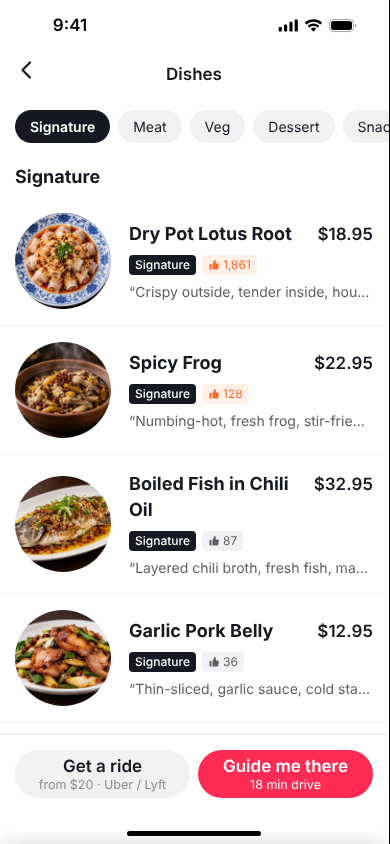
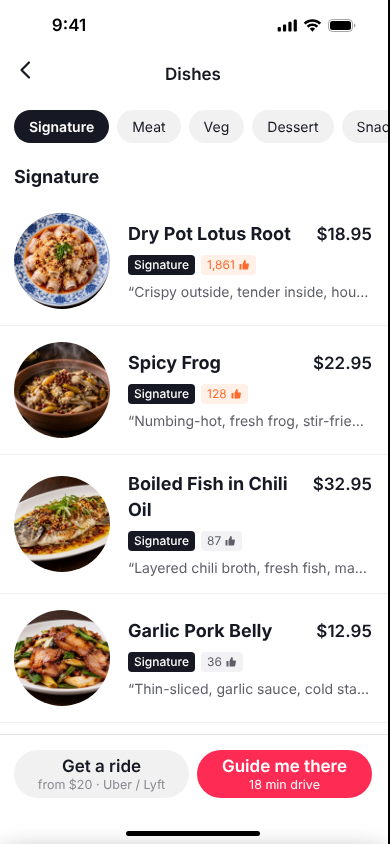
Recs: number first, thumbs-up after
Claude-Session: https://claude.ai/code/session_01Q6z36aYFBjH3xCc6Ygpjkp

diff --git a/app.js b/app.js
@@ -128,7 +128,7 @@
   // Compact recommendations; photo opens the existing video feed, text opens Menu.
   const recommendationNames = ['Dry Pot Lotus Root', 'Spicy Frog', 'Boiled Fish in Chili Oil', 'Garlic Pork Belly'];
   const recommendationPhotos = ['garlic-pork-belly.jpg', 'stone-frog.jpg', 'marble-goby.jpg', 'twice-cooked-pork.jpg'];
-  $('#dishRow').innerHTML = recommendationNames.map((name, i) => `<div class="dish"><button class="ph" data-photo="${i}" aria-label="Watch ${name}" style="background-image:url(img/d/${recommendationPhotos[i]})"><span>TOP·${i+1}</span></button><button data-act="dishDetail" data-name="${name}" class="dish-name">${name}</button><span class="rec" aria-label="${[63,33,53,33][i]} recommend"><svg class="rthumb" width="12" height="12" viewBox="0 0 24 24" fill="none" aria-hidden="true"><path d="M7 10v11H3V10h4zm2 0l4-8c1.5 0 2.5 1 2.5 2.5V9H20c1 0 2 1 1.8 2.2l-1.3 8C20.3 20.3 19.5 21 18.5 21H9V10z" fill="currentColor"/></svg>${[63,33,53,33][i]}</span></div>`).join('');
+  $('#dishRow').innerHTML = recommendationNames.map((name, i) => `<div class="dish"><button class="ph" data-photo="${i}" aria-label="Watch ${name}" style="background-image:url(img/d/${recommendationPhotos[i]})"><span>TOP·${i+1}</span></button><button data-act="dishDetail" data-name="${name}" class="dish-name">${name}</button><span class="rec" aria-label="${[63,33,53,33][i]} recommend">${[63,33,53,33][i]}<svg class="rthumb" width="12" height="12" viewBox="0 0 24 24" fill="none" aria-hidden="true"><path d="M7 10v11H3V10h4zm2 0l4-8c1.5 0 2.5 1 2.5 2.5V9H20c1 0 2 1 1.8 2.2l-1.3 8C20.3 20.3 19.5 21 18.5 21H9V10z" fill="currentColor"/></svg></span></div>`).join('');
   $('#comboRow').innerHTML = COMBOS.map(c => `
     <div class="combo">
       <div class="pics">${c.imgs.map(i => `<div style="background-image:url(${i})"></div>`).join('')}</div>
@@ -604,7 +604,7 @@
   /* Final POI screens: shared rows, page history and six menu categories. */
   const MENU = {"Signature": [{"name": "Dry Pot Lotus Root", "price": "$18.95", "recs": 1861, "quote": "Crispy outside, tender inside, house secret spice", "img": "img/d/garlic-pork-belly.jpg", "tag": "Signature"}, {"name": "Spicy Frog", "price": "$22.95", "recs": 128, "quote": "Numbing-hot, fresh frog, stir-fried on high heat", "img": "img/d/stone-frog.jpg", "tag": "Signature"}, {"name": "Boiled Fish in Chili Oil", "price": "$32.95", "recs": 87, "quote": "Layered chili broth, fresh fish, made to order", "img": "img/d/marble-goby.jpg", "tag": "Signature"}, {"name": "Garlic Pork Belly", "price": "$12.95", "recs": 36, "quote": "Thin-sliced, garlic sauce, cold starter", "img": "img/d/twice-cooked-pork.jpg", "tag": "Signature"}, {"name": "Mapo Beef Rib", "price": "$24.95", "recs": 14, "quote": "Rich, beef rib, slow-braised", "img": "img/d/mapo-beef-rib.jpg", "tag": "Signature"}, {"name": "Cold Sesame Noodles", "price": "$9.95", "recs": 10, "quote": "Nutty, chewy, hand-pulled", "img": "img/d/cold-noodles.jpg", "tag": "Signature"}], "Meat": [{"name": "Twice-Cooked Pork", "price": "$16.95", "tag": "Popular", "recs": 412, "quote": "Smoky, fatty-lean belly, leek", "img": "img/d/twice-cooked-pork.jpg"}, {"name": "Peppercorn Duck", "price": "$21.95", "tag": "Spicy", "recs": 233, "quote": "Numbing Sichuan pepper, crispy skin", "img": "img/d/peppercorn-duck.jpg"}, {"name": "Char Siu Beef", "price": "$19.95", "tag": "", "recs": 188, "quote": "Sweet glaze, sliced thin", "img": "img/d/charsiu-beef.jpg"}, {"name": "Braised Pigeon Legs", "price": "$15.95", "tag": "", "recs": 96, "quote": "Fall-off-the-bone, soy braise", "img": "img/d/pigeon-legs.jpg"}, {"name": "Mushroom Duck Stew", "price": "$22.95", "tag": "", "recs": 74, "quote": "Slow-cooked, earthy broth", "img": "img/d/mushroom-duck.jpg"}], "Veg": [{"name": "Dry Pot Lotus Root", "price": "$18.95", "tag": "Popular", "recs": 1861, "quote": "Crispy outside, tender inside", "img": "img/d/garlic-pork-belly.jpg"}, {"name": "Garlic Edamame", "price": "$6.95", "tag": "", "recs": 305, "quote": "Salted, garlic, cold starter", "img": "img/d/edamame.jpg"}, {"name": "Celery & Lily Bulb Stir-fry", "price": "$10.95", "tag": "", "recs": 142, "quote": "Light, crunchy, not spicy", "img": "img/d/sea-cucumber-celery.jpg"}, {"name": "Mapo Tofu", "price": "$12.95", "tag": "Spicy", "recs": 527, "quote": "Silky tofu, chili bean paste", "img": "img/d/mapo-beef-rib.jpg"}], "Dessert": [{"name": "Egg Tart", "price": "$5.95", "tag": "Popular", "recs": 388, "quote": "Flaky crust, warm custard", "img": "img/d/foie-gras-tart.jpg"}, {"name": "Sesame Bun", "price": "$6.95", "tag": "", "recs": 204, "quote": "Soft, black-sesame filling", "img": "img/d/sesame-bun.jpg"}, {"name": "Osmanthus Pastry", "price": "$5.95", "tag": "", "recs": 119, "quote": "Crumbly, floral, light sweet", "img": "img/d/pastry.jpg"}, {"name": "Bird's Nest Pudding", "price": "$8.95", "tag": "", "recs": 67, "quote": "Chilled, coconut milk", "img": "img/d/birdsnest-tower.jpg"}], "Snacks": [{"name": "Cold Sesame Noodles", "price": "$9.95", "tag": "Popular", "recs": 10, "quote": "Nutty, chewy, hand-pulled", "img": "img/d/cold-noodles.jpg"}, {"name": "Garlic Edamame", "price": "$6.95", "tag": "", "recs": 305, "quote": "Salted, garlic, cold starter", "img": "img/d/edamame.jpg"}, {"name": "Claypot Rice", "price": "$13.95", "tag": "", "recs": 156, "quote": "Crispy bottom, sausage", "img": "img/d/claypot-rice.jpg"}, {"name": "Garlic Crayfish (small)", "price": "$14.95", "tag": "Spicy", "recs": 221, "quote": "Shell-on, garlic butter", "img": "img/d/garlic-crayfish.jpg"}], "Soup": [{"name": "Yellow Croaker Soup", "price": "$18.95", "tag": "Popular", "recs": 173, "quote": "Milky broth, pickled veg", "img": "img/d/yellow-croaker.jpg"}, {"name": "Pickled Fish Soup", "price": "$19.95", "tag": "Spicy", "recs": 342, "quote": "Sour-hot, tender fish", "img": "img/d/marble-goby.jpg"}, {"name": "Stone Frog Soup", "price": "$22.95", "tag": "", "recs": 88, "quote": "Clear broth, ginger", "img": "img/d/stone-frog.jpg"}, {"name": "Crab & Tofu Soup", "price": "$16.95", "tag": "", "recs": 59, "quote": "Sweet crab, soft tofu", "img": "img/d/drunken-crab.jpg"}]};
   const pageStack=[]; let category='Signature';
-  const listMarkup=(items, menu=false)=>items.map((d,i)=>`<article class="menu-dish"><button class="menu-photo" data-photo="${d.name==='Spicy Frog'?1:0}" aria-label="Watch ${d.name}"><img src="${d.img}" alt="${d.name}"></button><button class="menu-dish-info" data-act="dishDetail" data-name="${d.name}"><div class="dish-title"><b>${d.name}</b><strong>${d.price}</strong></div><div class="dish-tags">${d.tag?`<span class="dish-tag ${d.tag==='Spicy'?'spicy':''}">${d.tag}</span>`:''}<span class="recommend ${d.recs>=100?'popular':''}" aria-label="${d.recs} recommend"><svg class="rthumb" width="12" height="12" viewBox="0 0 24 24" fill="none" aria-hidden="true"><path d="M7 10v11H3V10h4zm2 0l4-8c1.5 0 2.5 1 2.5 2.5V9H20c1 0 2 1 1.8 2.2l-1.3 8C20.3 20.3 19.5 21 18.5 21H9V10z" fill="currentColor"/></svg>${d.recs.toLocaleString('en-US')}</span></div><p>“${d.quote}”</p></button></article>`).join('');
+  const listMarkup=(items, menu=false)=>items.map((d,i)=>`<article class="menu-dish"><button class="menu-photo" data-photo="${d.name==='Spicy Frog'?1:0}" aria-label="Watch ${d.name}"><img src="${d.img}" alt="${d.name}"></button><button class="menu-dish-info" data-act="dishDetail" data-name="${d.name}"><div class="dish-title"><b>${d.name}</b><strong>${d.price}</strong></div><div class="dish-tags">${d.tag?`<span class="dish-tag ${d.tag==='Spicy'?'spicy':''}">${d.tag}</span>`:''}<span class="recommend ${d.recs>=100?'popular':''}" aria-label="${d.recs} recommend">${d.recs.toLocaleString('en-US')}<svg class="rthumb" width="12" height="12" viewBox="0 0 24 24" fill="none" aria-hidden="true"><path d="M7 10v11H3V10h4zm2 0l4-8c1.5 0 2.5 1 2.5 2.5V9H20c1 0 2 1 1.8 2.2l-1.3 8C20.3 20.3 19.5 21 18.5 21H9V10z" fill="currentColor"/></svg></span></div><p>“${d.quote}”</p></button></article>`).join('');
   function showPlaceBody(dishes) {
     place.classList.toggle('dishes-mode',dishes);
     $('#dishesTab').hidden=!dishes;
